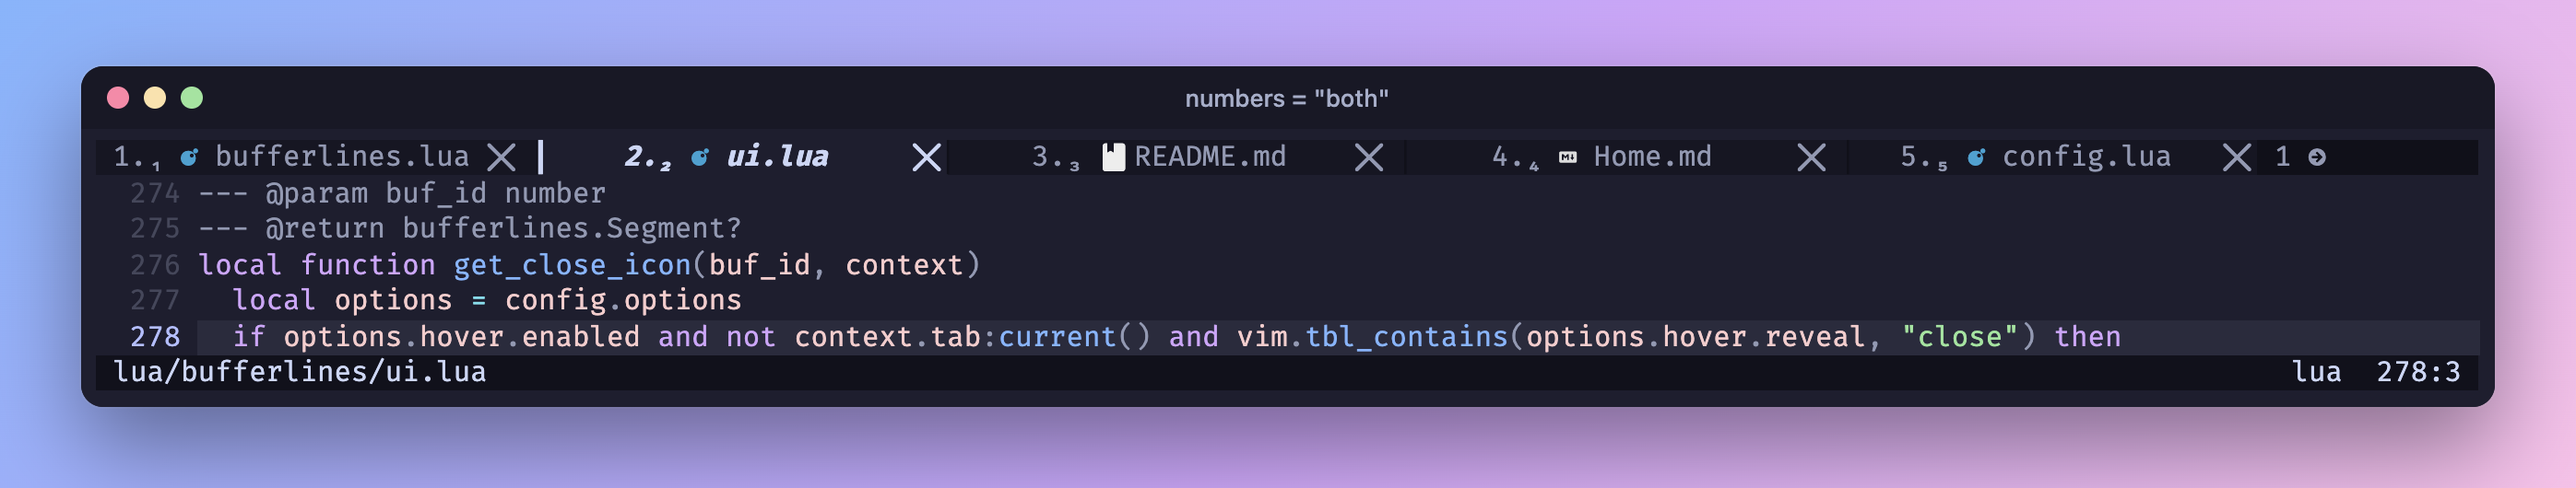
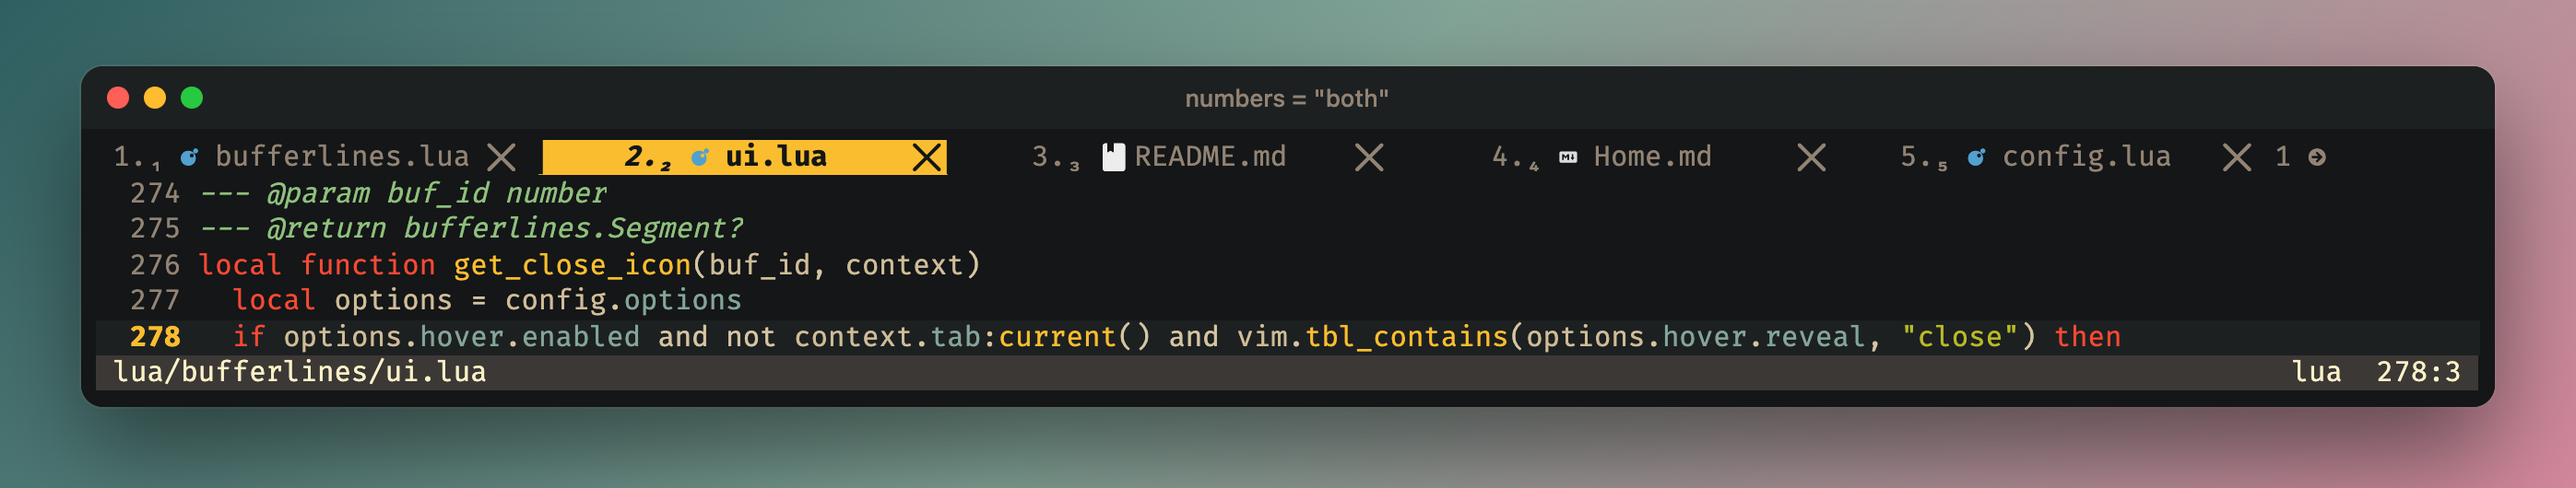
docs(preview): restyle screenshots with Apollo and the maintainer's tab look
Scenes load the Apollo colorscheme (falling back to Neovim's bundled
catppuccin) with accent-block highlights. The multiline scenes use
sloped tabs of one width without close icons, the navigate scene moves
with <Down>, and the header hint lists the arrow keys. The frame uses
Apollo's background and a teal-to-rose gradient. All 19 screenshots are
regenerated at 2x.

diff --git a/scripts/preview/ansi2html.py b/scripts/preview/ansi2html.py
@@ -18,22 +18,22 @@ BASE16 = [
     "#1b1f27", "#e06c75", "#98c379", "#e5c07b", "#61afef", "#c678dd", "#56b6c2", "#abb2bf",
     "#5c6370", "#ef8a92", "#b0d99a", "#f0d197", "#82c0f5", "#d79ae8", "#7fcfd9", "#ffffff",
 ]
-# Catppuccin Mocha, matching the scene colorscheme.
-DEFAULT_FG, DEFAULT_BG = "#cdd6f4", "#1e1e2e"
+# Apollo, matching the scene colorscheme.
+DEFAULT_FG, DEFAULT_BG = "#cfbc97", "#141617"
 PAGE = """<!doctype html><html><head><meta charset="utf-8"><style>
 body{margin:0;background:transparent}
 #shot{display:inline-block;padding:36px 44px 44px;
-  background:linear-gradient(135deg,#89b4fa 0%%,#cba6f7 55%%,#f5c2e7 100%%)}
+  background:linear-gradient(135deg,#2f5f61 0%%,#83a598 48%%,#d3869b 100%%)}
 .win{border-radius:12px;overflow:hidden;background:%(bg)s;
-  box-shadow:0 22px 50px rgba(17,17,27,.45),0 0 0 1px rgba(255,255,255,.08)}
-.bar{position:relative;height:34px;background:#181825;display:flex;align-items:center;padding:0 14px;gap:8px}
+  box-shadow:0 24px 56px rgba(10,12,12,.55),0 0 0 1px rgba(251,241,199,.08)}
+.bar{position:relative;height:34px;background:#1d2021;display:flex;align-items:center;padding:0 14px;gap:8px}
 .bar i{width:12px;height:12px;border-radius:50%%;display:block}
-.bar span{position:absolute;left:0;right:0;text-align:center;color:#a6adc8;
+.bar span{position:absolute;left:0;right:0;text-align:center;color:#928374;
   font:500 13px -apple-system,BlinkMacSystemFont,"Segoe UI",sans-serif}
 .g{display:inline-block;width:1ch;text-align:center;overflow:visible;font-style:normal}
 pre{font:15px/1.3 "FiraCode Nerd Font Mono","Symbols Nerd Font Mono",monospace;font-variant-ligatures:none;margin:0;padding:6px 8px 8px;color:%(fg)s;background:%(bg)s}
 </style></head><body><div id="shot"><div class="win"><div class="bar">
-<i style="background:#f38ba8"></i><i style="background:#f9e2af"></i><i style="background:#a6e3a1"></i>
+<i style="background:#ff5f57"></i><i style="background:#febc2e"></i><i style="background:#28c840"></i>
 <span>%(title)s</span></div><pre>%(body)s</pre></div></div></body></html>
 """
 

diff --git a/scripts/preview/test_ansi2html.py b/scripts/preview/test_ansi2html.py
@@ -29,5 +29,6 @@ check("日" in convert("日本"), "wide characters pass through")
 check("text-decoration:underline" in convert("\x1b[4mU"), "underline")
 reset = convert("\x1b[1mX\x1b[22mY")
 check(reset.count("font-weight:bold") == 1, "22 clears bold")
-check('font-family:"ComicShannsMono Nerd Font Mono"' in convert("x").replace("font:16px/1.25 ", "font-family:"), "nerd font")
+check('"FiraCode Nerd Font Mono","Symbols Nerd Font Mono"' in convert("x"), "nerd font")
+check("#141617" in convert("x") and "#cfbc97" in convert("x"), "apollo frame colours")
 sys.exit(1 if fails else 0)

diff --git a/wiki/Multiline-Buffer-Tabs.md b/wiki/Multiline-Buffer-Tabs.md
@@ -32,9 +32,10 @@ for a fresh configuration:
 
 If you already configure bufferlines, replace its plugin source and merge these options
 into your existing complete configuration; do not register two copies of the plugin.
-The README preview uses a custom colorscheme and slanted separators. Add
-`separator_style = "slant"` inside `options` for that separator shape; the snippet above
-does not replace your colorscheme.
+The README preview uses the Apollo colorscheme, sloped separators and tabs of one width
+without close icons. Add `separator_style = "slope"`, `tab_size = 16`,
+`enforce_regular_tabs = true` and `show_buffer_close_icons = false` inside `options` for
+that shape; the snippet above does not replace your colorscheme.
 
 ## Enabling
 

diff --git a/wiki/Testing-and-Development-zh-CN.md b/wiki/Testing-and-Development-zh-CN.md
@@ -48,7 +48,9 @@ python3 scripts/test_wiki_sync.py     # wiki 发布安全性
 ## 预览截图
 
 `wiki/assets` 中的截图均来自真实的 Neovim 会话，不做手工修图。`scripts/preview/scene.lua`
-中的每个场景在独立的 tmux 服务器中运行，`ansi2html.py` 把窗格转成带窗口边框的 HTML：
+中的每个场景在独立的 tmux 服务器中运行，`ansi2html.py` 把窗格转成带窗口边框的 HTML。
+`NVIM_TEST_DEPS` 中有 `apollo-theme`（https://github.com/apollo-theme/apollo-theme）时，场景
+使用 Apollo 配色与强调色块高亮，否则使用内置的 `catppuccin`：
 
 ```sh
 NVIM_TEST_DEPS="$HOME/.local/share/nvim/lazy" scripts/preview/render-all.sh /tmp/previews

diff --git a/wiki/Multiline-Buffer-Tabs-zh-CN.md b/wiki/Multiline-Buffer-Tabs-zh-CN.md
@@ -29,8 +29,9 @@
 ```
 
 已有 bufferlines 配置时，请替换插件来源，并将这些选项合入现有的完整配置；不要同时注册两份
-插件。README 预览使用了自定义配色和斜切分隔符。在 `options` 中加入
-`separator_style = "slant"` 可使用该分隔符形状；上面的示例不会替换你的配色方案。
+插件。README 预览使用了 Apollo 配色、斜坡分隔符，以及等宽且不带关闭图标的标签。在
+`options` 中加入 `separator_style = "slope"`、`tab_size = 16`、`enforce_regular_tabs = true`
+与 `show_buffer_close_icons = false` 可得到该外观；上面的示例不会替换你的配色方案。
 
 ## 启用
 

diff --git a/wiki/Testing-and-Development.md b/wiki/Testing-and-Development.md
@@ -50,7 +50,9 @@ See [Documentation Pipeline](Documentation-Pipeline).
 
 Images in `wiki/assets` come from real Neovim sessions, never edited by hand. Each scene in
 `scripts/preview/scene.lua` runs in a private tmux server; `ansi2html.py` frames the pane
-as HTML:
+as HTML. Scenes use the Apollo colorscheme with accent-block highlights when
+`apollo-theme` (https://github.com/apollo-theme/apollo-theme) is in `NVIM_TEST_DEPS`, and
+the bundled `catppuccin` otherwise:
 
 ```sh
 NVIM_TEST_DEPS="$HOME/.local/share/nvim/lazy" scripts/preview/render-all.sh /tmp/previews
